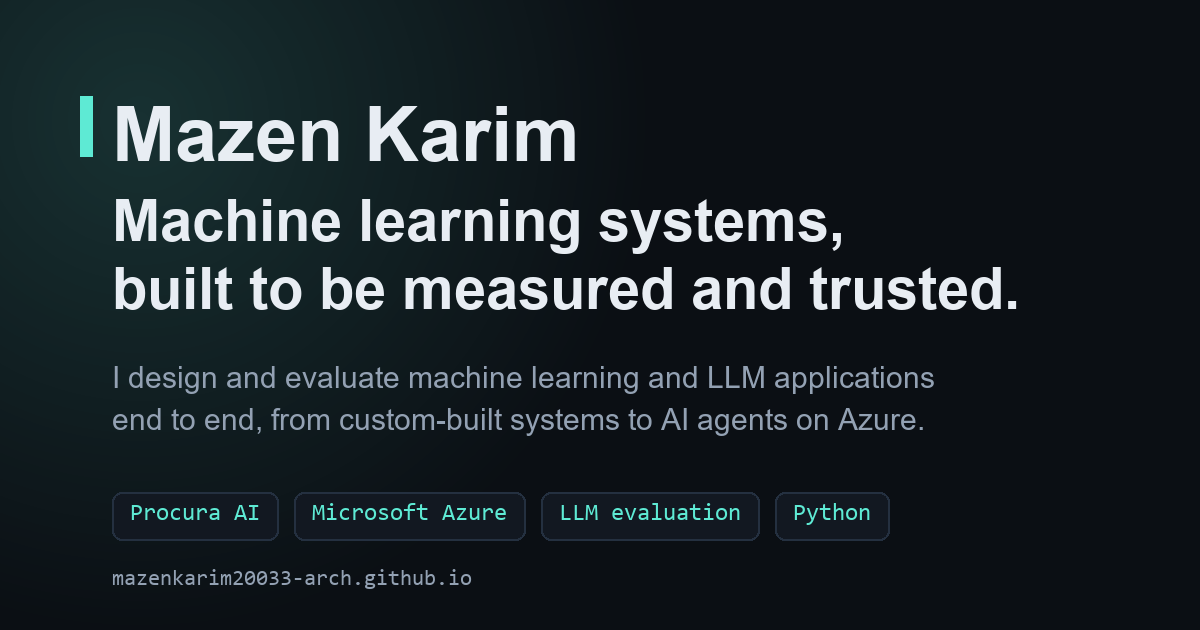
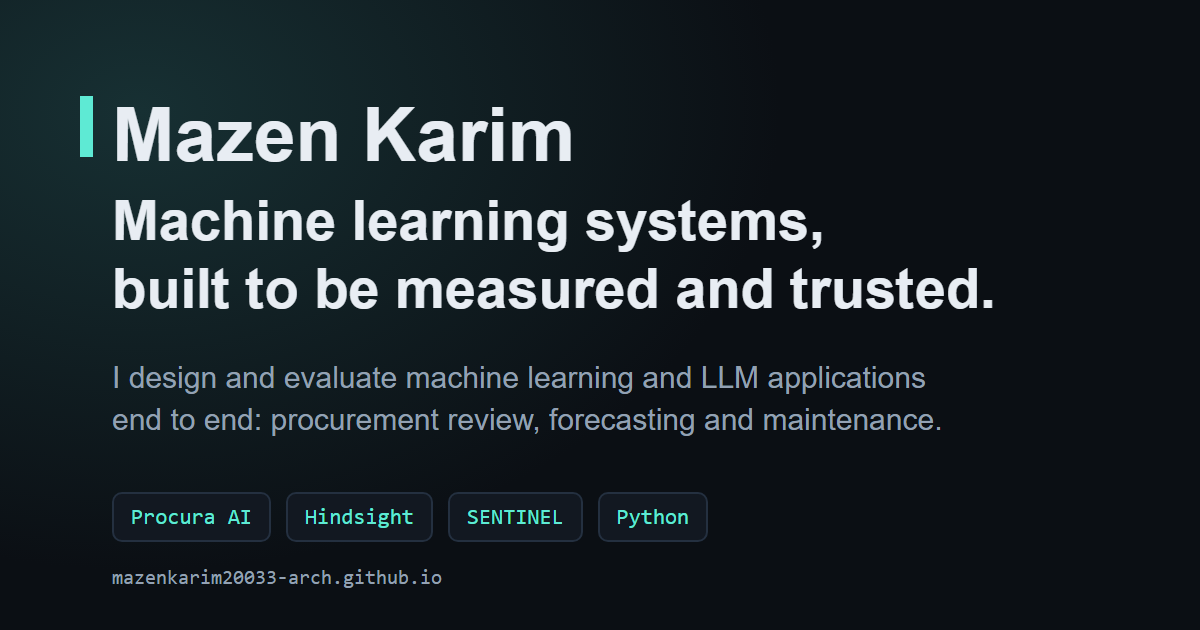
Fix the case study dialog, update the share image and project count
- Only the dialog body scrolls; the close button stays in its own strip
- Taps inside the dialog no longer close it
- Share image names the current projects
- Hero: 8 apps

diff --git a/styles.css b/styles.css
@@ -173,9 +173,14 @@ footer { text-align: center; padding: 36px 20px; color: var(--muted); font-size:
 
 dialog {
   width: min(720px, calc(100vw - 24px)); max-height: calc(100vh - 40px);
-  margin: auto; padding: 32px; border: 1px solid var(--line); border-radius: 18px;
-  background: var(--surface); color: var(--text);
+  margin: auto; padding: 0; border: 1px solid var(--line); border-radius: 18px;
+  background: var(--surface); color: var(--text); overflow: hidden;
 }
+/* only the body scrolls, so the close button stays put and every tap inside the dialog lands on its content */
+dialog[open] { display: flex; flex-direction: column; }
+/* the top border is a clear strip for the close button: scrolled text never passes under it */
+#modal-body { min-height: 0; overflow-y: auto; overscroll-behavior: contain; padding: 4px 32px 32px; border-top: 60px solid var(--surface); }
+#modal-body:focus { outline: none; } /* focused by script for keyboard scrolling; not a tab stop */
 dialog::backdrop { background: rgba(3, 6, 10, 0.72); backdrop-filter: blur(3px); }
 dialog h2 { font-size: 1.7rem; letter-spacing: -0.02em; margin: 10px 0 6px; }
 dialog h4 { font-family: var(--mono); font-size: 0.78rem; font-weight: 500; text-transform: uppercase; letter-spacing: 0.08em; color: var(--accent); margin: 26px 0 6px; }
@@ -184,7 +189,7 @@ dialog p { margin: 0; color: var(--muted); }
 dialog .tags { margin: 26px 0 8px; }
 .close {
   position: absolute; top: 14px; right: 16px; width: 36px; height: 36px;
-  border-radius: 50%; border: 1px solid var(--line); background: none; color: var(--text);
+  border-radius: 50%; border: 1px solid var(--line); background: var(--surface); color: var(--text);
   font-size: 1.4rem; line-height: 1; cursor: pointer;
 }
 .close:hover { border-color: var(--accent); }
@@ -197,7 +202,7 @@ dialog .tags { margin: 26px 0 8px; }
   .status { font-size: 0.8rem; }
   .nav-links { gap: 14px; }
   .nav-links a:not(.nav-cta) { display: none; }
-  dialog { padding: 24px 20px; }
+  #modal-body { padding: 4px 20px 24px; }
 }
 @media (prefers-reduced-motion: reduce) {
   html { scroll-behavior: auto; }

diff --git a/index.html b/index.html
@@ -53,7 +53,7 @@
       <a href="mailto:mazen.karim.20033@gmail.com">Email</a>
     </p>
     <dl class="proof" aria-label="At a glance">
-      <div><dt>5</dt><dd>machine learning apps shipped end to end</dd></div>
+      <div><dt>8</dt><dd>machine learning apps shipped end to end</dd></div>
       <div><dt>169</dt><dd>automated tests in the flagship project</dd></div>
       <div><dt>40</dt><dd>labelled evaluation scenarios, frozen before tuning</dd></div>
     </dl>
@@ -150,7 +150,7 @@
 
 <dialog id="modal" aria-labelledby="m-title">
   <button class="close" id="close" aria-label="Close">&times;</button>
-  <div id="modal-body"></div>
+  <div id="modal-body" tabindex="-1"></div>
 </dialog>
 
 <script src="projects.js"></script>

diff --git a/app.js b/app.js
@@ -46,7 +46,8 @@
         ${links.live ? `<a class="btn btn-primary" href="${esc(links.live)}" target="_blank" rel="noopener">Live demo</a>` : ""}
       </div>` : ""}`;
     modal.showModal();
-    modal.scrollTop = 0;
+    body.scrollTop = 0;
+    body.focus(); // arrow keys and Page Down scroll the case study straight away
     history.replaceState(null, "", "#" + id);
   }
 
